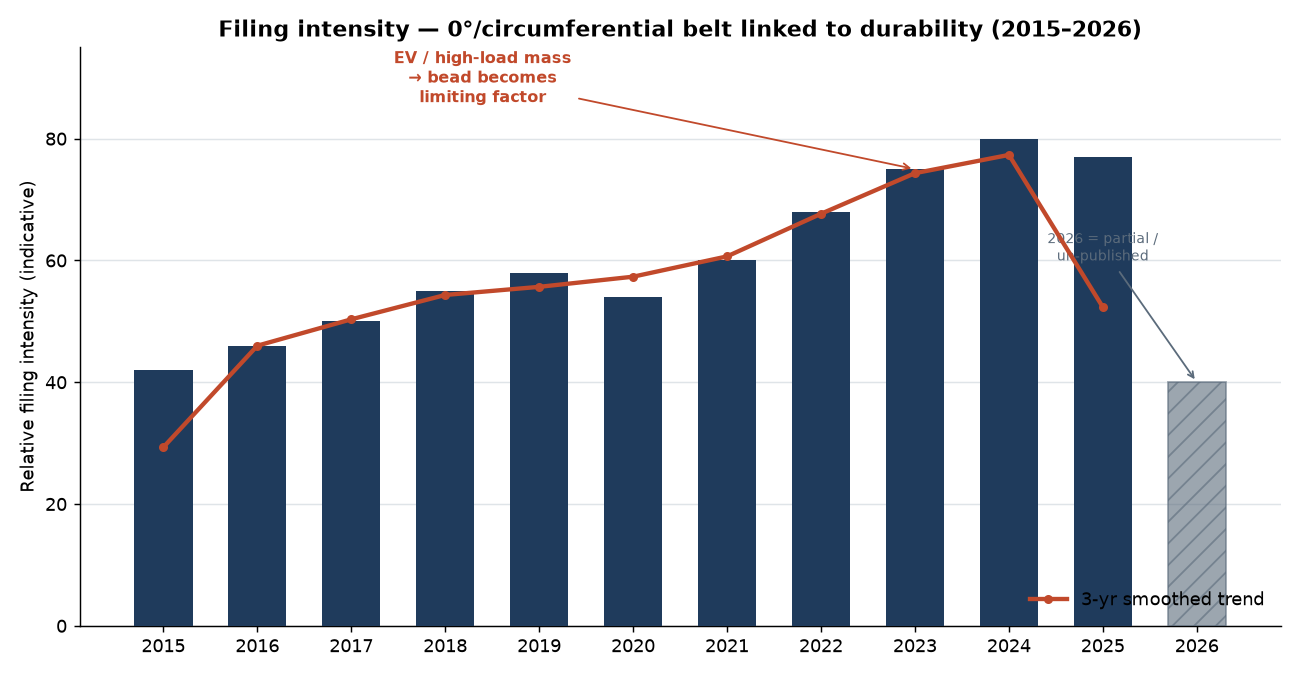
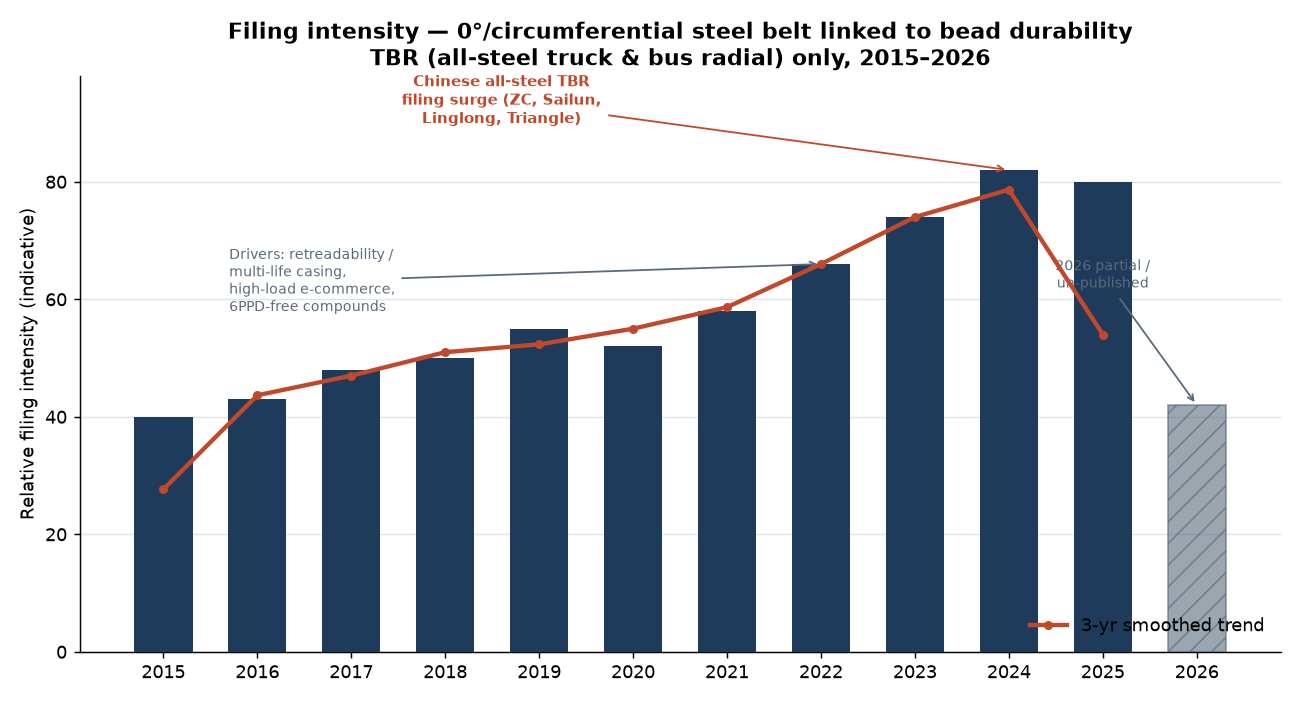
Refocus patent analysis on TBR (all-steel truck & bus radial) only
Re-cut all six charts for TBR scope: replace PCR/textile hybrid cap-ply
content with steel 0deg/protective belt, steel chafer/bead reinforcing ply,
L-shaped dual-modulus apex, turn-up arrangement, belt-edge wedge, and
retreadability/multi-life casing as the central bead-durability constraint.
Re-weight assignees toward TBR OEMs, Chinese/Indian all-steel TBR makers,
and steel-cord suppliers.

Claude-Session: https://claude.ai/code/session_01XcpKUn7wSAr4Hzxb7VPP8z

diff --git a/patent_analysis/make_charts.py b/patent_analysis/make_charts.py
@@ -1,12 +1,12 @@
 #!/usr/bin/env python3
 """
-Patent landscape graphics: Zero-degree / circumferential belt and its effect on
-bead (and adjacent crown/belt-edge) durability, 2015-2026.
+TBR-ONLY patent landscape graphics: zero-degree / circumferential (steel) belt
+and its effect on BEAD durability in Truck & Bus Radial (all-steel) tyres,
+2015-2026. Passenger (PCR) and other tyre types are explicitly excluded.
 
-NOTE ON DATA: values encode the *relative emphasis* observed across a sampled set
-of patents/applications from Google Patents, Justia, USPTO and WIPO surfaced in
-the research. They are indicative of direction and intensity, NOT exact database
-counts. Use as a qualitative landscape, not a statistical census.
+DATA NOTE: values encode *relative emphasis* observed across a sampled set of
+TBR / heavy-duty patents (Google Patents, Justia, USPTO, WIPO). Indicative of
+direction & intensity, NOT exact database counts.
 """
 import matplotlib
 matplotlib.use("Agg")
@@ -15,226 +15,167 @@ from matplotlib.patches import FancyBboxPatch, FancyArrowPatch
 import numpy as np
 
 OUT = "/home/user/Sri/patent_analysis"
-plt.rcParams.update({
-    "font.size": 10,
-    "axes.titlesize": 12,
-    "axes.titleweight": "bold",
-    "figure.dpi": 130,
-})
+plt.rcParams.update({"font.size":10,"axes.titlesize":12,"axes.titleweight":"bold","figure.dpi":130})
+NAVY="#1f3b5c"; TEAL="#2a9d8f"; AMBER="#e9a227"; RUST="#c1492b"; SLATE="#5b6b7b"; LGREY="#dfe4e8"; GREEN="#3a7d44"
+TAG="TBR (all-steel truck & bus radial) only"
 
-NAVY = "#1f3b5c"; TEAL = "#2a9d8f"; AMBER = "#e9a227"; RUST = "#c1492b"
-SLATE = "#5b6b7b"; LGREY = "#dfe4e8"; GREEN = "#3a7d44"
-
-# ----------------------------------------------------------------------------
-# FIG 1 -- Filing-intensity trend 2015-2026 + thematic shift
-# ----------------------------------------------------------------------------
+# ---------------------------------------------------------------- FIG 1 trend
 def fig_trend():
-    yrs = np.arange(2015, 2027)
-    # indicative relative filing intensity for "0deg-belt + durability" theme
-    intensity = [42,46,50,55,58,54,60,68,75,80,77,40]   # 2026 partial year
-    fig, ax = plt.subplots(figsize=(10, 5.2))
-    bars = ax.bar(yrs, intensity, color=NAVY, width=0.62, zorder=3)
+    yrs=np.arange(2015,2027)
+    intensity=[40,43,48,50,55,52,58,66,74,82,80,42]
+    fig,ax=plt.subplots(figsize=(10,5.4))
+    bars=ax.bar(yrs,intensity,color=NAVY,width=0.62,zorder=3)
     bars[-1].set_color(SLATE); bars[-1].set_hatch("//"); bars[-1].set_alpha(0.6)
-    # rolling trend line
-    ax.plot(yrs[:-1], np.convolve(intensity[:-1],[1/3,1/3,1/3],"same"),
-            color=RUST, lw=2.4, marker="o", ms=4, zorder=4, label="3-yr smoothed trend")
-    ax.set_title("Filing intensity — 0°/circumferential belt linked to durability (2015–2026)")
-    ax.set_ylabel("Relative filing intensity (indicative)")
-    ax.set_xticks(yrs); ax.set_ylim(0, 95)
-    ax.grid(axis="y", color=LGREY, zorder=0)
+    ax.plot(yrs[:-1],np.convolve(intensity[:-1],[1/3,1/3,1/3],"same"),color=RUST,lw=2.4,
+            marker="o",ms=4,zorder=4,label="3-yr smoothed trend")
+    ax.set_title(f"Filing intensity — 0°/circumferential steel belt linked to bead durability\n{TAG}, 2015–2026")
+    ax.set_ylabel("Relative filing intensity (indicative)"); ax.set_xticks(yrs); ax.set_ylim(0,98)
+    ax.grid(axis="y",color=LGREY,zorder=0)
     for s in ["top","right"]: ax.spines[s].set_visible(False)
-    ax.annotate("EV / high-load mass\n→ bead becomes\nlimiting factor",
-                xy=(2023, 75), xytext=(2018.4, 86),
-                arrowprops=dict(arrowstyle="->", color=RUST), color=RUST,
-                fontsize=9, ha="center", fontweight="bold")
-    ax.annotate("2026 = partial /\nun-published",
-                xy=(2026, 40), xytext=(2025.0, 60),
-                arrowprops=dict(arrowstyle="->", color=SLATE), color=SLATE,
-                fontsize=8, ha="center")
-    ax.legend(loc="lower right", frameon=False)
+    ax.annotate("Chinese all-steel TBR\nfiling surge (ZC, Sailun,\nLinglong, Triangle)",
+                xy=(2024,82),xytext=(2018.6,90),arrowprops=dict(arrowstyle="->",color=RUST),
+                color=RUST,fontsize=8.5,ha="center",fontweight="bold")
+    ax.annotate("Drivers: retreadability /\nmulti-life casing,\nhigh-load e-commerce,\n6PPD-free compounds",
+                xy=(2022,66),xytext=(2015.7,58),arrowprops=dict(arrowstyle="->",color=SLATE),
+                color=SLATE,fontsize=8,ha="left")
+    ax.annotate("2026 partial /\nun-published",xy=(2026,42),xytext=(2025.0,62),
+                arrowprops=dict(arrowstyle="->",color=SLATE),color=SLATE,fontsize=8,ha="center")
+    ax.legend(loc="lower right",frameon=False)
     fig.tight_layout(); fig.savefig(f"{OUT}/1_filing_trend.png"); plt.close(fig)
 
-# ----------------------------------------------------------------------------
-# FIG 2 -- Leading assignees (relative activity, split by play)
-# ----------------------------------------------------------------------------
+# ---------------------------------------------------------------- FIG 2 assignees
 def fig_assignees():
-    data = [
-        ("Bridgestone",      9.0, "OEM"),
-        ("Michelin",         8.3, "OEM"),
-        ("Sumitomo / Falken",7.2, "OEM"),
-        ("Goodyear",         6.8, "OEM"),
-        ("Continental",      6.3, "OEM"),
-        ("Yokohama",         5.4, "OEM"),
-        ("Hankook",          4.8, "OEM"),
-        ("Pirelli",          3.6, "OEM"),
-        ("Toyo",             3.0, "OEM"),
-        ("Kolon Industries", 4.4, "Cord/Material"),
-        ("Hyosung",          3.8, "Cord/Material"),
-        ("Chinese OEMs*",    5.0, "Regional"),
-    ]
-    data.sort(key=lambda x: x[1])
-    names = [d[0] for d in data]; vals=[d[1] for d in data]
-    cmap = {"OEM":NAVY, "Cord/Material":TEAL, "Regional":AMBER}
-    cols = [cmap[d[2]] for d in data]
-    fig, ax = plt.subplots(figsize=(10, 5.6))
-    ax.barh(names, vals, color=cols, zorder=3)
-    ax.set_title("Leading assignees — 0°-belt / crown-reinforcement & bead-durability space")
+    data=[("Bridgestone",9.2,"TBR OEM"),("Michelin",8.6,"TBR OEM"),("Sumitomo / Dunlop",7.4,"TBR OEM"),
+          ("Continental",6.6,"TBR OEM"),("Yokohama",6.2,"TBR OEM"),("Goodyear",5.8,"TBR OEM"),
+          ("Hankook",5.2,"TBR OEM"),("Toyo",3.6,"TBR OEM"),
+          ("ZC Rubber (Zhongce)",6.0,"China TBR"),("Sailun",5.4,"China TBR"),
+          ("Linglong",5.2,"China TBR"),("Triangle / Double Coin",4.4,"China TBR"),
+          ("Apollo / JK / CEAT",4.2,"India TBR"),
+          ("Bekaert / Kiswire (steel cord)",4.6,"Steel-cord")]
+    data.sort(key=lambda x:x[1])
+    names=[d[0] for d in data]; vals=[d[1] for d in data]
+    cmap={"TBR OEM":NAVY,"China TBR":RUST,"India TBR":AMBER,"Steel-cord":TEAL}
+    cols=[cmap[d[2]] for d in data]
+    fig,ax=plt.subplots(figsize=(10.5,6.2))
+    ax.barh(names,vals,color=cols,zorder=3)
+    ax.set_title(f"Leading assignees — 0°-steel-belt / crown & bead durability\n{TAG}")
     ax.set_xlabel("Relative activity in theme (indicative)")
-    ax.grid(axis="x", color=LGREY, zorder=0)
+    ax.grid(axis="x",color=LGREY,zorder=0)
     for s in ["top","right"]: ax.spines[s].set_visible(False)
-    handles=[plt.Rectangle((0,0),1,1,color=c) for c in cmap.values()]
-    ax.legend(handles, cmap.keys(), loc="lower right", frameon=False, title="Assignee type")
-    ax.text(0, -1.4, "*Chinese OEMs incl. Sailun, Linglong, ZC Rubber, Triangle — strong on all-steel 0°-belt structure & compounds",
-            fontsize=7.5, color=SLATE, transform=ax.get_yaxis_transform())
+    h=[plt.Rectangle((0,0),1,1,color=c) for c in cmap.values()]
+    ax.legend(h,cmap.keys(),loc="lower right",frameon=False,title="Assignee type")
     fig.tight_layout(); fig.savefig(f"{OUT}/2_assignees.png"); plt.close(fig)
 
-# ----------------------------------------------------------------------------
-# FIG 3 -- Causal mechanism map: 0deg belt -> bead durability
-# ----------------------------------------------------------------------------
+# ---------------------------------------------------------------- FIG 3 mechanism
 def fig_mechanism():
-    fig, ax = plt.subplots(figsize=(11.5, 6.6)); ax.axis("off")
-    ax.set_xlim(0,12); ax.set_ylim(0,8)
-    def box(x,y,w,h,txt,fc,tc="white",fs=9.5):
-        ax.add_patch(FancyBboxPatch((x,y),w,h,boxstyle="round,pad=0.08,rounding_size=0.12",
-                    fc=fc,ec="white",lw=1.5))
-        ax.text(x+w/2,y+h/2,txt,ha="center",va="center",color=tc,fontsize=fs,
-                fontweight="bold",wrap=True)
-    def arrow(x1,y1,x2,y2,c=SLATE):
-        ax.add_patch(FancyArrowPatch((x1,y1),(x2,y2),arrowstyle="-|>",
-                    mutation_scale=16,color=c,lw=2))
-    ax.text(6,7.6,"Why a crown-region 0°/circumferential belt reaches down to the BEAD",
-            ha="center",fontsize=13,fontweight="bold",color=NAVY)
-    # source
-    box(0.3,5.6,3.0,1.2,"0° / circumferential\nbelt (cap ply, spiral,\nfull/edge cover)",NAVY)
-    # intermediate mechanisms
-    box(4.3,6.4,3.4,1.0,"Strong hoop effect →\nrestrains crown growth",TEAL)
-    box(4.3,5.0,3.4,1.0,"Stiffer, flatter crown →\naltered carcass line",TEAL)
-    box(4.3,3.6,3.4,1.0,"Belt-edge shear /\nscissoring concentrated",TEAL)
-    box(4.3,2.2,3.4,1.0,"Higher loads carried\n(EV / truck mass)",TEAL)
-    # bead consequence
-    box(8.6,4.3,3.1,1.4,"BEAD region:\n↑ carcass tension &\nbending at TURN-UP END\n→ fatigue / separation",RUST)
-    box(8.6,2.2,3.1,1.0,"Crown / belt-edge\nseparation (adjacent)",AMBER,tc="#3a2a00")
-    arrow(3.3,6.2,4.3,6.9); arrow(3.3,6.0,4.3,5.5)
-    arrow(3.3,5.8,4.3,4.1); arrow(3.3,5.7,4.3,2.7)
-    arrow(7.7,6.9,8.6,5.4); arrow(7.7,5.5,8.6,5.2)
-    arrow(7.7,4.1,8.6,4.9); arrow(7.7,2.7,8.6,4.6)
-    arrow(7.7,3.9,8.6,2.7,c=AMBER)
-    ax.text(6,0.7,"Net effect: the 0° belt rarely fails itself — it RE-ROUTES load/tension so the\n"
-                  "turn-up end & bead apex become the durability-limiting site, especially under high mass.",
-            ha="center",fontsize=9.5,style="italic",color=NAVY,
-            bbox=dict(boxstyle="round",fc=LGREY,ec="none"))
+    fig,ax=plt.subplots(figsize=(11.8,6.8)); ax.axis("off"); ax.set_xlim(0,12); ax.set_ylim(0,8)
+    def box(x,y,w,h,txt,fc,tc="white",fs=9.3):
+        ax.add_patch(FancyBboxPatch((x,y),w,h,boxstyle="round,pad=0.08,rounding_size=0.12",fc=fc,ec="white",lw=1.5))
+        ax.text(x+w/2,y+h/2,txt,ha="center",va="center",color=tc,fontsize=fs,fontweight="bold")
+    def arr(x1,y1,x2,y2,c=SLATE):
+        ax.add_patch(FancyArrowPatch((x1,y1),(x2,y2),arrowstyle="-|>",mutation_scale=15,color=c,lw=2))
+    ax.text(6,7.6,"TBR: how a crown 0°/circumferential STEEL belt reaches the BEAD",ha="center",fontsize=13,fontweight="bold",color=NAVY)
+    box(0.3,5.5,3.0,1.4,"0° / circumferential\nSTEEL belt or protective\nbelt over working belts\n(4-belt all-steel package)",NAVY,fs=8.6)
+    box(4.2,6.4,3.5,1.0,"Strong hoop restraint →\nflatter, stiffer crown",TEAL)
+    box(4.2,5.0,3.5,1.0,"Belt-edge inter-ply shear\n(working ↔ 0° belt)",TEAL)
+    box(4.2,3.6,3.5,1.0,"High inflation pressure +\nheavy axle load",TEAL)
+    box(4.2,2.2,3.5,1.0,"Repeated retread / multi-\nlife casing fatigue",TEAL)
+    box(8.6,4.2,3.1,1.5,"BEAD region:\n↑ carcass tension &\nstrain at TURN-UP END\n→ crack / ply loosening,\nbead-rim chafing",RUST,fs=8.8)
+    box(8.6,2.2,3.1,1.0,"Belt-edge / shoulder\nseparation (adjacent)",AMBER,tc="#3a2a00")
+    arr(3.3,6.1,4.2,6.9); arr(3.3,5.9,4.2,5.5)
+    arr(3.3,5.8,4.2,4.1); arr(3.3,5.6,4.2,2.7)
+    arr(7.7,6.9,8.6,5.4); arr(7.7,5.5,8.6,5.1)
+    arr(7.7,4.1,8.6,4.8); arr(7.7,2.7,8.6,4.5)
+    arr(7.7,5.3,8.6,2.7,c=AMBER)
+    ax.text(6,0.7,"TBR specifics: the casing must survive 2–3 retread lives at high pressure, so the turn-up end &\n"
+            "bead-rim seat — not the steel 0° belt itself — set the durability ceiling.",
+            ha="center",fontsize=9.3,style="italic",color=NAVY,bbox=dict(boxstyle="round",fc=LGREY,ec="none"))
     fig.tight_layout(); fig.savefig(f"{OUT}/3_mechanism_map.png"); plt.close(fig)
 
-# ----------------------------------------------------------------------------
-# FIG 4 -- Mitigation levers grouped by family
-# ----------------------------------------------------------------------------
+# ---------------------------------------------------------------- FIG 4 levers
 def fig_levers():
-    groups = {
-        "MATERIAL / CORD": [
-            ("Nylon-aramid hybrid cap-ply cord", 9),
-            ("Bi-elastic / high-modulus cords", 7),
-            ("Cooler-running 0°-belt compound", 6),
-            ("Resin / adhesion-tuned coat rubber", 5),
-        ],
-        "BELT STRUCTURE": [
-            ("0° ply narrower than working plies", 8),
-            ("Belt-edge cushion / insulation", 8),
-            ("Full-cover + edge-cover combo", 7),
-            ("Continuous / zig-zag crown reinf.", 5),
-        ],
-        "BEAD / CARCASS GEOMETRY": [
-            ("Steel-cord bead reinforcing ply", 8),
-            ("Apex stiffness gradient / soft apex", 7),
-            ("Carcass turn-up height tuning", 7),
-            ("1st/2nd turn-up pads", 5),
-        ],
-        "PROCESS / MODELLING": [
-            ("Spiral winding pitch control", 6),
-            ("FEA strain-energy optimisation", 6),
-            ("Lightweighting w/o durability loss", 5),
-        ],
+    groups={
+      "STEEL CORD / COMPOUND":[("HE/HT steel belt cord, m+n twist",8),
+                               ("Cooler 0°-belt coat compound",7),
+                               ("Steel chafer / bead-reinf. cord",8),
+                               ("6PPD-free / sustainable rubber",4)],
+      "BELT STRUCTURE (crown)":[("0° steel belt width < working belts",8),
+                                ("Belt-edge wedge / cushion gauge",9),
+                                ("4-belt package & belt radius decouple",7),
+                                ("Triangulated / split protective belt",5)],
+      "BEAD / CARCASS GEOMETRY":[("Steel-cord bead reinforcing ply",9),
+                                 ("L-shaped dual-modulus apex",8),
+                                 ("Carcass turn-up height / arrangement",8),
+                                 ("Flipper-chipper, gum strip at turn-up",7),
+                                 ("Bead toe / 15° rim-seat & rim cushion",6)],
+      "DESIGN / LIFECYCLE":[("FEA strain at turn-up end",7),
+                            ("Retread / multi-life casing design",8),
+                            ("Lightweight all-steel w/o bead penalty",6)],
     }
-    fig, axes = plt.subplots(2,2, figsize=(12, 8))
-    fam_col = [TEAL, NAVY, RUST, AMBER]
-    for ax,(name,items),c in zip(axes.ravel(), groups.items(), fam_col):
+    fig,axes=plt.subplots(2,2,figsize=(12.5,8.4)); fam=[TEAL,NAVY,RUST,AMBER]
+    for ax,(name,items),c in zip(axes.ravel(),groups.items(),fam):
         labs=[i[0] for i in items][::-1]; vals=[i[1] for i in items][::-1]
-        ax.barh(labs, vals, color=c, zorder=3)
-        ax.set_title(name, color=c)
-        ax.set_xlim(0,10); ax.grid(axis="x", color=LGREY, zorder=0)
-        ax.tick_params(labelsize=8.5)
+        ax.barh(labs,vals,color=c,zorder=3); ax.set_title(name,color=c)
+        ax.set_xlim(0,10); ax.grid(axis="x",color=LGREY,zorder=0); ax.tick_params(labelsize=8.3)
         for s in ["top","right"]: ax.spines[s].set_visible(False)
-    fig.suptitle("Engineering levers used to protect bead/crown durability when adding a 0° belt",
-                 fontsize=13, fontweight="bold", color=NAVY, y=0.99)
-    fig.text(0.5,0.005,"Bar length = relative frequency / emphasis across sampled patents (indicative)",
-             ha="center", fontsize=8, color=SLATE)
+    fig.suptitle(f"Engineering levers protecting BEAD durability with a 0° steel belt — {TAG}",
+                 fontsize=12.5,fontweight="bold",color=NAVY,y=0.995)
+    fig.text(0.5,0.005,"Bar length = relative frequency / emphasis across sampled TBR patents (indicative)",
+             ha="center",fontsize=8,color=SLATE)
     fig.tight_layout(rect=[0,0.02,1,0.97]); fig.savefig(f"{OUT}/4_levers.png"); plt.close(fig)
 
-# ----------------------------------------------------------------------------
-# FIG 5 -- Opportunity vs Challenge bubble matrix (impact vs maturity)
-# ----------------------------------------------------------------------------
+# ---------------------------------------------------------------- FIG 5 opportunity
 def fig_opportunity():
-    # (label, maturity 0-10, impact 0-10, type O/C, size)
-    items = [
-        ("Nylon-aramid hybrid cap ply",      8.5, 7.5, "O", 900),
-        ("0°-ply edge geometry rules",       8.0, 6.5, "O", 700),
-        ("Belt-edge cushion compounds",      7.5, 6.0, "O", 600),
-        ("EV high-load bead+crown co-design", 3.5, 9.0, "O", 1200),
-        ("Lightweight 0° belt (sustain.)",   3.4, 7.9, "O", 850),
-        ("Continuous/zig-zag crown reinf.",  3.0, 6.5, "O", 650),
-        ("Sensorised / SHM durability",      2.0, 5.5, "O", 500),
-        ("Turn-up end fatigue under hoop",   6.0, 8.5, "C", 1000),
-        ("Heat build-up at high mass",       5.3, 7.2, "C", 800),
-        ("0°/steel-belt edge shear coupling",5.5, 7.0, "C", 700),
-        ("Recyclability vs hybrid cords",    3.0, 6.0, "C", 600),
-        ("Cost of aramid / new cords",       6.5, 5.0, "C", 550),
-    ]
-    fig, ax = plt.subplots(figsize=(11, 7.4))
+    items=[("Belt-edge wedge compound tuning",8.0,6.2,"O",650),
+           ("Steel chafer / turn-up geom. rules",8.2,6.8,"O",750),
+           ("L-shaped dual-modulus apex",7.5,7.0,"O",700),
+           ("Retread-optimised multi-life casing",4.2,9.0,"O",1150),
+           ("Lightweight all-steel, no bead penalty",3.6,7.8,"O",900),
+           ("0° steel protective-belt edge design",5.2,7.0,"O",700),
+           ("Sensorised casing / RFID for retread",2.2,6.2,"O",600),
+           ("6PPD-free durable bead compounds",2.6,6.8,"O",650),
+           ("Turn-up end fatigue at high pressure",5.8,8.8,"C",1050),
+           ("Casing fatigue across 2-3 retreads",4.6,8.2,"C",900),
+           ("Bead-rim chafing / 15° seat heat",5.4,7.2,"C",750),
+           ("Heat build-up at high axle load",5.0,7.6,"C",800),
+           ("Steel-cord cost & corrosion (bead/belt)",6.6,5.4,"C",600)]
+    fig,ax=plt.subplots(figsize=(11.4,7.6))
     for lab,x,y,t,s in items:
-        c = GREEN if t=="O" else RUST
+        c=GREEN if t=="O" else RUST
         ax.scatter(x,y,s=s,color=c,alpha=0.55,edgecolor="white",lw=1.5,zorder=3)
-        ax.text(x,y,lab,fontsize=7.8,ha="center",va="center",zorder=4,wrap=True)
-    ax.axvline(5,color=LGREY,zorder=0); ax.axhline(6.7,color=LGREY,zorder=0)
-    ax.set_xlim(1,10); ax.set_ylim(4,10)
+        ax.text(x,y,lab,fontsize=7.7,ha="center",va="center",zorder=4)
+    ax.axvline(5,color=LGREY,zorder=0); ax.axhline(6.9,color=LGREY,zorder=0)
+    ax.set_xlim(1,10); ax.set_ylim(4.5,9.6)
     ax.set_xlabel("Technology maturity  →  (emerging ............ established)")
-    ax.set_ylabel("Impact on durability problem  →")
-    ax.set_title("Opportunity (green) vs Challenge (red) landscape — bubble size = activity")
+    ax.set_ylabel("Impact on TBR bead-durability problem  →")
+    ax.set_title(f"Opportunity (green) vs Challenge (red) — {TAG}\nbubble size = activity")
     for s in ["top","right"]: ax.spines[s].set_visible(False)
-    ax.text(2.6,9.6,"HIGH-IMPACT /\nEMERGING\n(white space)",color=GREEN,fontsize=9,
-            fontweight="bold",ha="center",alpha=0.8)
-    ax.text(8.4,9.6,"HIGH-IMPACT /\nMATURE\n(crowded)",color=NAVY,fontsize=9,
-            fontweight="bold",ha="center",alpha=0.8)
+    ax.text(2.5,9.35,"HIGH-IMPACT / EMERGING\n(white space)",color=GREEN,fontsize=9,fontweight="bold",ha="center",alpha=0.85)
+    ax.text(8.3,9.35,"HIGH-IMPACT / MATURE\n(crowded)",color=NAVY,fontsize=9,fontweight="bold",ha="center",alpha=0.85)
     h=[plt.Line2D([0],[0],marker="o",color="w",markerfacecolor=GREEN,markersize=12,label="Opportunity"),
        plt.Line2D([0],[0],marker="o",color="w",markerfacecolor=RUST,markersize=12,label="Challenge")]
     ax.legend(handles=h,loc="lower left",frameon=False)
     fig.tight_layout(); fig.savefig(f"{OUT}/5_opportunity_matrix.png"); plt.close(fig)
 
-# ----------------------------------------------------------------------------
-# FIG 6 -- Direction of travel timeline (theme evolution 2015->2026)
-# ----------------------------------------------------------------------------
+# ---------------------------------------------------------------- FIG 6 direction
 def fig_direction():
-    fig, ax = plt.subplots(figsize=(11.5, 4.4)); ax.axis("off")
-    ax.set_xlim(0,12); ax.set_ylim(0,5)
-    phases = [
-        (0.4,"2015-18","Structure first","0°-ply width, belt-edge\ncushion, damper layers",NAVY),
-        (3.4,"2018-21","Material turn","Nylon→ hybrid/aramid &\nbi-elastic cap-ply cords",TEAL),
-        (6.4,"2021-24","System co-design","Crown + bead treated\ntogether; FEA-driven",AMBER),
-        (9.4,"2024-26","Mass & sustain.","EV/high-load bead limit;\nlightweight + recyclable",RUST),
-    ]
+    fig,ax=plt.subplots(figsize=(11.8,4.6)); ax.axis("off"); ax.set_xlim(0,12); ax.set_ylim(0,5)
+    phases=[(0.4,"2015-18","Bead geometry","Steel chafer, apex,\nturn-up arrangement",NAVY),
+            (3.4,"2018-21","Belt-edge focus","0° steel-belt width &\nedge wedge/cushion",TEAL),
+            (6.4,"2021-24","Casing co-design","Crown+bead together,\nFEA, retread life",AMBER),
+            (9.4,"2024-26","Load & sustain.","High-load/EV axles,\nlightweight, 6PPD-free",RUST)]
     for x,yr,t,d,c in phases:
-        ax.add_patch(FancyBboxPatch((x,1.4),2.4,2.2,boxstyle="round,pad=0.08,rounding_size=0.15",
-                     fc=c,ec="white",lw=2))
+        ax.add_patch(FancyBboxPatch((x,1.4),2.4,2.2,boxstyle="round,pad=0.08,rounding_size=0.15",fc=c,ec="white",lw=2))
         ax.text(x+1.2,3.15,yr,ha="center",color="white",fontsize=10,fontweight="bold")
         ax.text(x+1.2,2.55,t,ha="center",color="white",fontsize=10,fontweight="bold")
         ax.text(x+1.2,1.9,d,ha="center",color="white",fontsize=8)
     for x in [2.8,5.8,8.8]:
-        ax.add_patch(FancyArrowPatch((x,2.5),(x+0.6,2.5),arrowstyle="-|>",
-                     mutation_scale=20,color=SLATE,lw=2.5))
-    ax.text(6,4.4,"Direction of travel: from belt geometry  →  cords  →  whole-casing co-design  →  mass/sustainability",
-            ha="center",fontsize=12,fontweight="bold",color=NAVY)
-    ax.text(6,0.7,"Bead durability moves from a side-effect to a primary design constraint as vehicle mass rises.",
-            ha="center",fontsize=9.5,style="italic",color=SLATE)
+        ax.add_patch(FancyArrowPatch((x,2.5),(x+0.6,2.5),arrowstyle="-|>",mutation_scale=20,color=SLATE,lw=2.5))
+    ax.text(6,4.4,f"Direction of travel — {TAG}",ha="center",fontsize=12,fontweight="bold",color=NAVY)
+    ax.text(6,0.7,"Retreadability (multi-life casing) is the constant that makes bead durability the central TBR constraint.",
+            ha="center",fontsize=9.3,style="italic",color=SLATE)
     fig.tight_layout(); fig.savefig(f"{OUT}/6_direction.png"); plt.close(fig)
 
-for f in [fig_trend, fig_assignees, fig_mechanism, fig_levers, fig_opportunity, fig_direction]:
-    f(); print("done:", f.__name__)
-print("ALL CHARTS WRITTEN ->", OUT)
+for f in [fig_trend,fig_assignees,fig_mechanism,fig_levers,fig_opportunity,fig_direction]:
+    f(); print("done:",f.__name__)
+print("TBR CHARTS WRITTEN ->",OUT)
